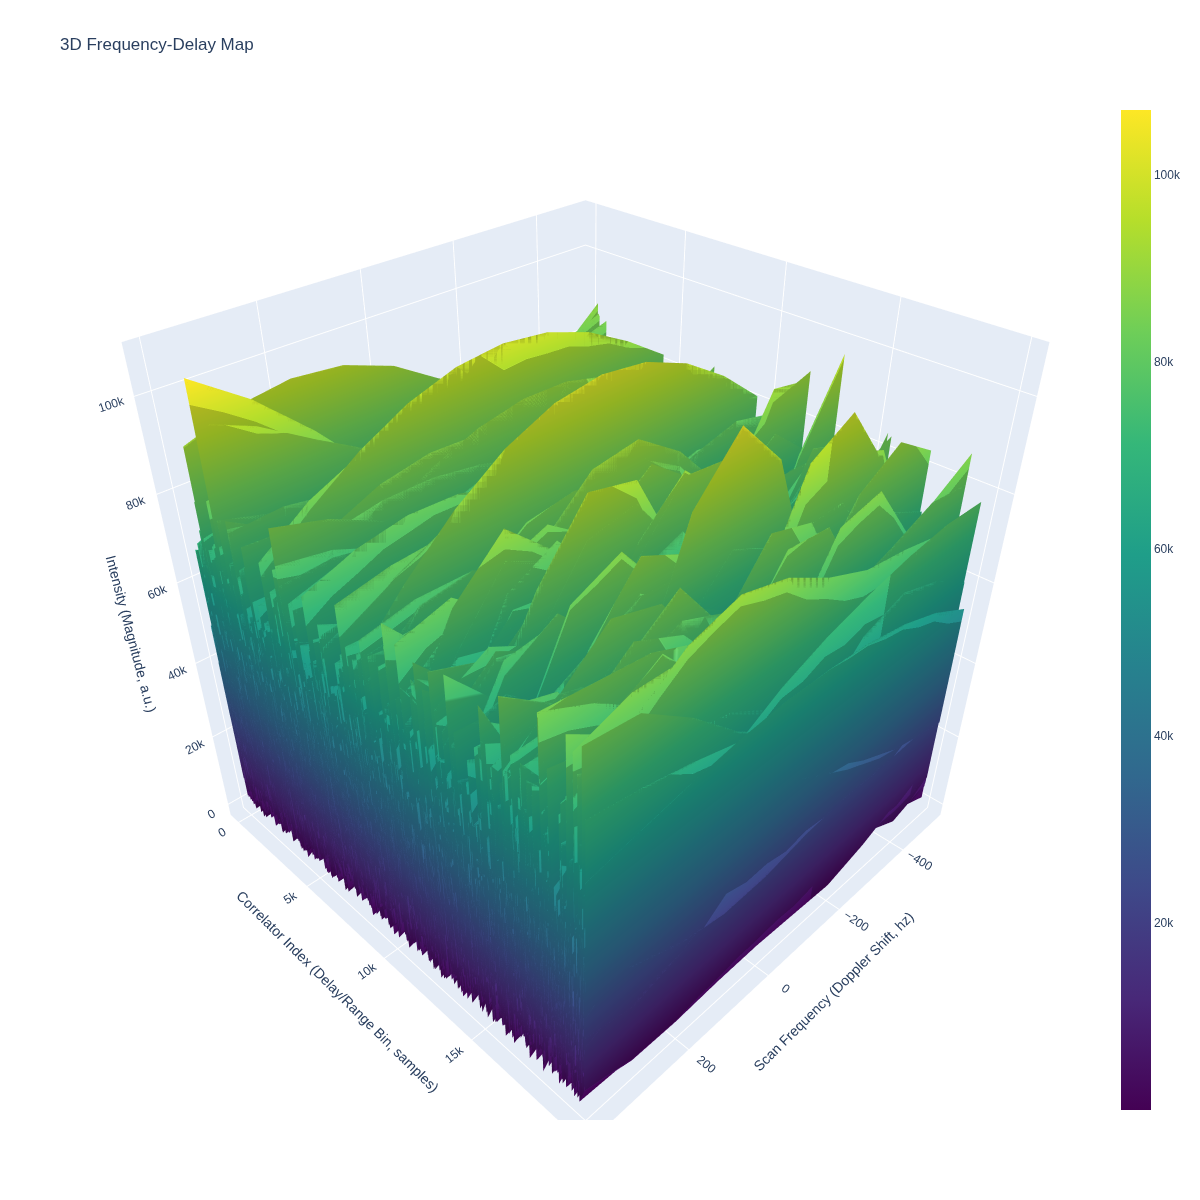
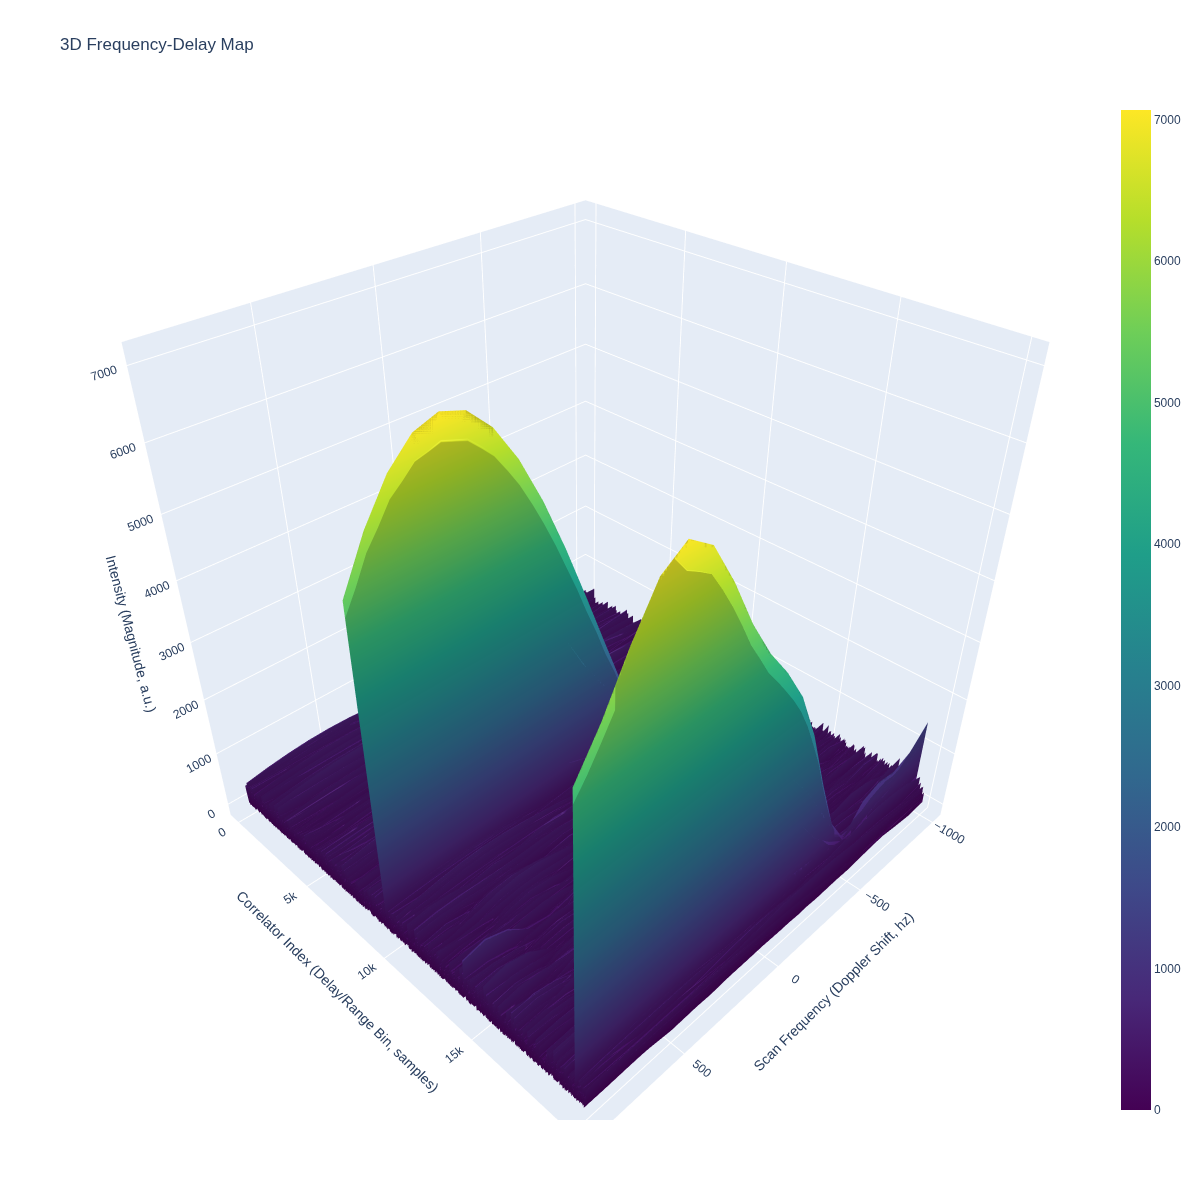
preliminaryy re really finding freq and phase shift

diff --git a/python/images/image_stitcher.py b/python/images/image_stitcher.py
@@ -1,0 +1,89 @@
+import os
+import re
+import matplotlib.pyplot as plt
+import matplotlib.image as mpimg
+
+def stitch_images():
+    image_dir = '.'  # Current directory. Change if your images are elsewhere.
+    
+    # 1. Regex pattern to extract SNR (Y) and WiFi (X) values
+    # It looks for optional minus signs (-?) followed by digits (\d+)
+    pattern = re.compile(r'(-?\d+)snr_(-?\d+)wifi_correlator_map\.png')
+
+    data = []
+    
+    # 2. Parse filenames and extract data
+    for filename in os.listdir(image_dir):
+        match = pattern.match(filename)
+        if match:
+            snr_val = int(match.group(1))
+            wifi_val = int(match.group(2))
+            data.append({
+                'filename': os.path.join(image_dir, filename), 
+                'snr': snr_val, 
+                'wifi': wifi_val
+            })
+
+    if not data:
+        print("No matching images found in the directory.")
+        return
+
+    # 3. Determine the grid size by finding unique X and Y values
+    # SNR is usually plotted with highest at the top, so we reverse sort Y
+    unique_snr = sorted(list(set([d['snr'] for d in data])), reverse=True)
+    # WiFi sorted lowest to highest for X
+    unique_wifi = sorted(list(set([d['wifi'] for d in data])))
+
+    # Create mapping from value to grid index
+    snr_to_row = {val: i for i, val in enumerate(unique_snr)}
+    wifi_to_col = {val: i for i, val in enumerate(unique_wifi)}
+
+    nrows = len(unique_snr)
+    ncols = len(unique_wifi)
+
+    # 4. Set up the Matplotlib figure
+    # squeeze=False ensures 'axes' is always a 2D array, even if it's a 1x1 grid
+    # gridspec_kw removes the whitespace between images to truly "stitch" them
+    fig, axes = plt.subplots(nrows=nrows, ncols=ncols, 
+                             figsize=(ncols * 3, nrows * 3), 
+                             gridspec_kw={'wspace': 0, 'hspace': 0},
+                             squeeze=False)
+
+    # Turn off axes for all subplots initially (in case some grid spots are missing images)
+    for ax in axes.flat:
+        ax.axis('off')
+
+    # 5. Populate the grid
+    for item in data:
+        row = snr_to_row[item['snr']]
+        col = wifi_to_col[item['wifi']]
+        ax = axes[row, col]
+
+        # Load and display the image
+        img = mpimg.imread(item['filename'])
+        ax.imshow(img)
+        
+        # Turn the axis back on so we can see the borders, but remove tick marks
+        ax.axis('on')
+        ax.set_xticks([])
+        ax.set_yticks([])
+
+        # Label the outer edges to create the master axis
+        if col == 0:
+            ax.set_ylabel(f'{item["snr"]} SNR', fontsize=12, fontweight='bold')
+        if row == nrows - 1:
+            ax.set_xlabel(f'{item["wifi"]} WiFi', fontsize=12, fontweight='bold')
+
+    # 6. Add master titles and save
+    fig.suptitle('Correlator Map Matrix: SNR vs WiFi', fontsize=16, fontweight='bold', y=1)
+    plt.tight_layout()
+    
+    output_filename = 'stitched_correlator_matrix.png'
+    plt.savefig(output_filename, dpi=300, bbox_inches='tight')
+    print(f"Success! Image saved as {output_filename}")
+    
+    # Opens the window to view the result immediately
+    plt.show()
+
+if __name__ == '__main__':
+    stitch_images()

diff --git a/python/fft_correlator.py b/python/fft_correlator.py
@@ -8,7 +8,7 @@ from collections import deque
 from psuedo_gc import psuedo_gc
 
 class fft_correlator:
-    def __init__(self, target_carry_freq, samp_rate, scan_range, gold_code, scan_speed_ms = 10, scan_step = 100):
+    def __init__(self, target_carry_freq, samp_rate, scan_range, gold_code, scan_step = 100):
         self.target_carry_freq = target_carry_freq
         self.scan_range = scan_range
         self.psuedo_gc = np.array(gold_code)
@@ -53,7 +53,6 @@ class fft_correlator:
 
         if (len(data_collected) > 0):
             self.correlator_results = data_collected
-            print(data_collected)
             return data_collected
         
         return None
@@ -86,4 +85,21 @@ class fft_correlator:
         return fft.ifft(freq_prod)
 
     def get_results(self):
-       pass 
+        processed_bins = []
+        
+        for bin in self.correlator_results:
+            cut_to_one_phase = bin[1][:self.samples_per_code]
+            magnitudes = np.abs(cut_to_one_phase)
+
+            processed_bins.append((bin[0], magnitudes))
+
+        current_max = 0
+        current_max_tup = None
+
+        for bin in processed_bins:
+            max_index = np.argmax(bin[1])
+            if bin[1][max_index] > current_max:
+                current_max = bin[1][max_index]
+                current_max_tup = (bin[0], max_index)
+
+        print(current_max_tup)

diff --git a/python/snr_wifi_relative_sweep.py b/python/snr_wifi_relative_sweep.py
@@ -1,0 +1,43 @@
+from fft_correlator import fft_correlator
+from stream_gen import stream_generator
+
+import numpy as np
+import matplotlib.pyplot as plt
+
+from psuedo_gc import psuedo_gc
+from test_plotter import plot_3d_correlator_map
+
+gnss_fc = 2.046e6
+sample_rate = 10e6
+
+snr_values = list(range(-30, 31, 20))
+wifi_values = list(range(-100, 51, 25))
+
+for snr_val in snr_values:
+    for wifi_val in wifi_values:
+
+        gen = stream_generator(
+            gnss_string="TEST_STRING",
+            gnss_fc=gnss_fc,                   # GNSS at 2x chip rate
+            gnss_transmission_speed=50,
+            wifi_fc=3e6,                   # WiFi about 1Mhz above gnss
+            stream_sample_rate=sample_rate,       # 10 MHz sample rate
+            chunk_duration_s=0.0004096,
+            noise=snr_val,
+            relative_amplitude=wifi_val
+        )
+
+        fc = fft_correlator(gnss_fc, sample_rate, 1000, psuedo_gc, 50)
+
+        data_yielder = gen.signal_stream()
+
+        corr_result = None
+        data_list = []
+
+        while True:
+            data = next(data_yielder)
+            corr_result = fc.load_and_sweep(data, gnss_fc)
+            if corr_result is not None:
+                data_list.extend(corr_result)
+                break
+        plot_3d_correlator_map(data_list, str(snr_val) + "snr_" + str(wifi_val) + "wifi")

diff --git a/python/simulator.py b/python/simulator.py
@@ -17,11 +17,11 @@ gen = stream_generator(
     wifi_fc=3e6,                   # WiFi about 1Mhz above gnss
     stream_sample_rate=sample_rate,       # 10 MHz sample rate
     chunk_duration_s=0.0004096,
-    noise=-30,
-    relative_amplitude=50
+    noise=10,
+    relative_amplitude=-100
 )
 
-fc = fft_correlator(gnss_fc, sample_rate, 500, psuedo_gc)
+fc = fft_correlator(gnss_fc, sample_rate, 1000, psuedo_gc)
 
 data_yielder = gen.signal_stream()
 
@@ -33,5 +33,6 @@ while True:
     corr_result = fc.load_and_sweep(data, gnss_fc)
     if corr_result is not None:
         data_list.extend(corr_result)
+        fc.get_results()
         break
 plot_3d_correlator_map(data_list)
